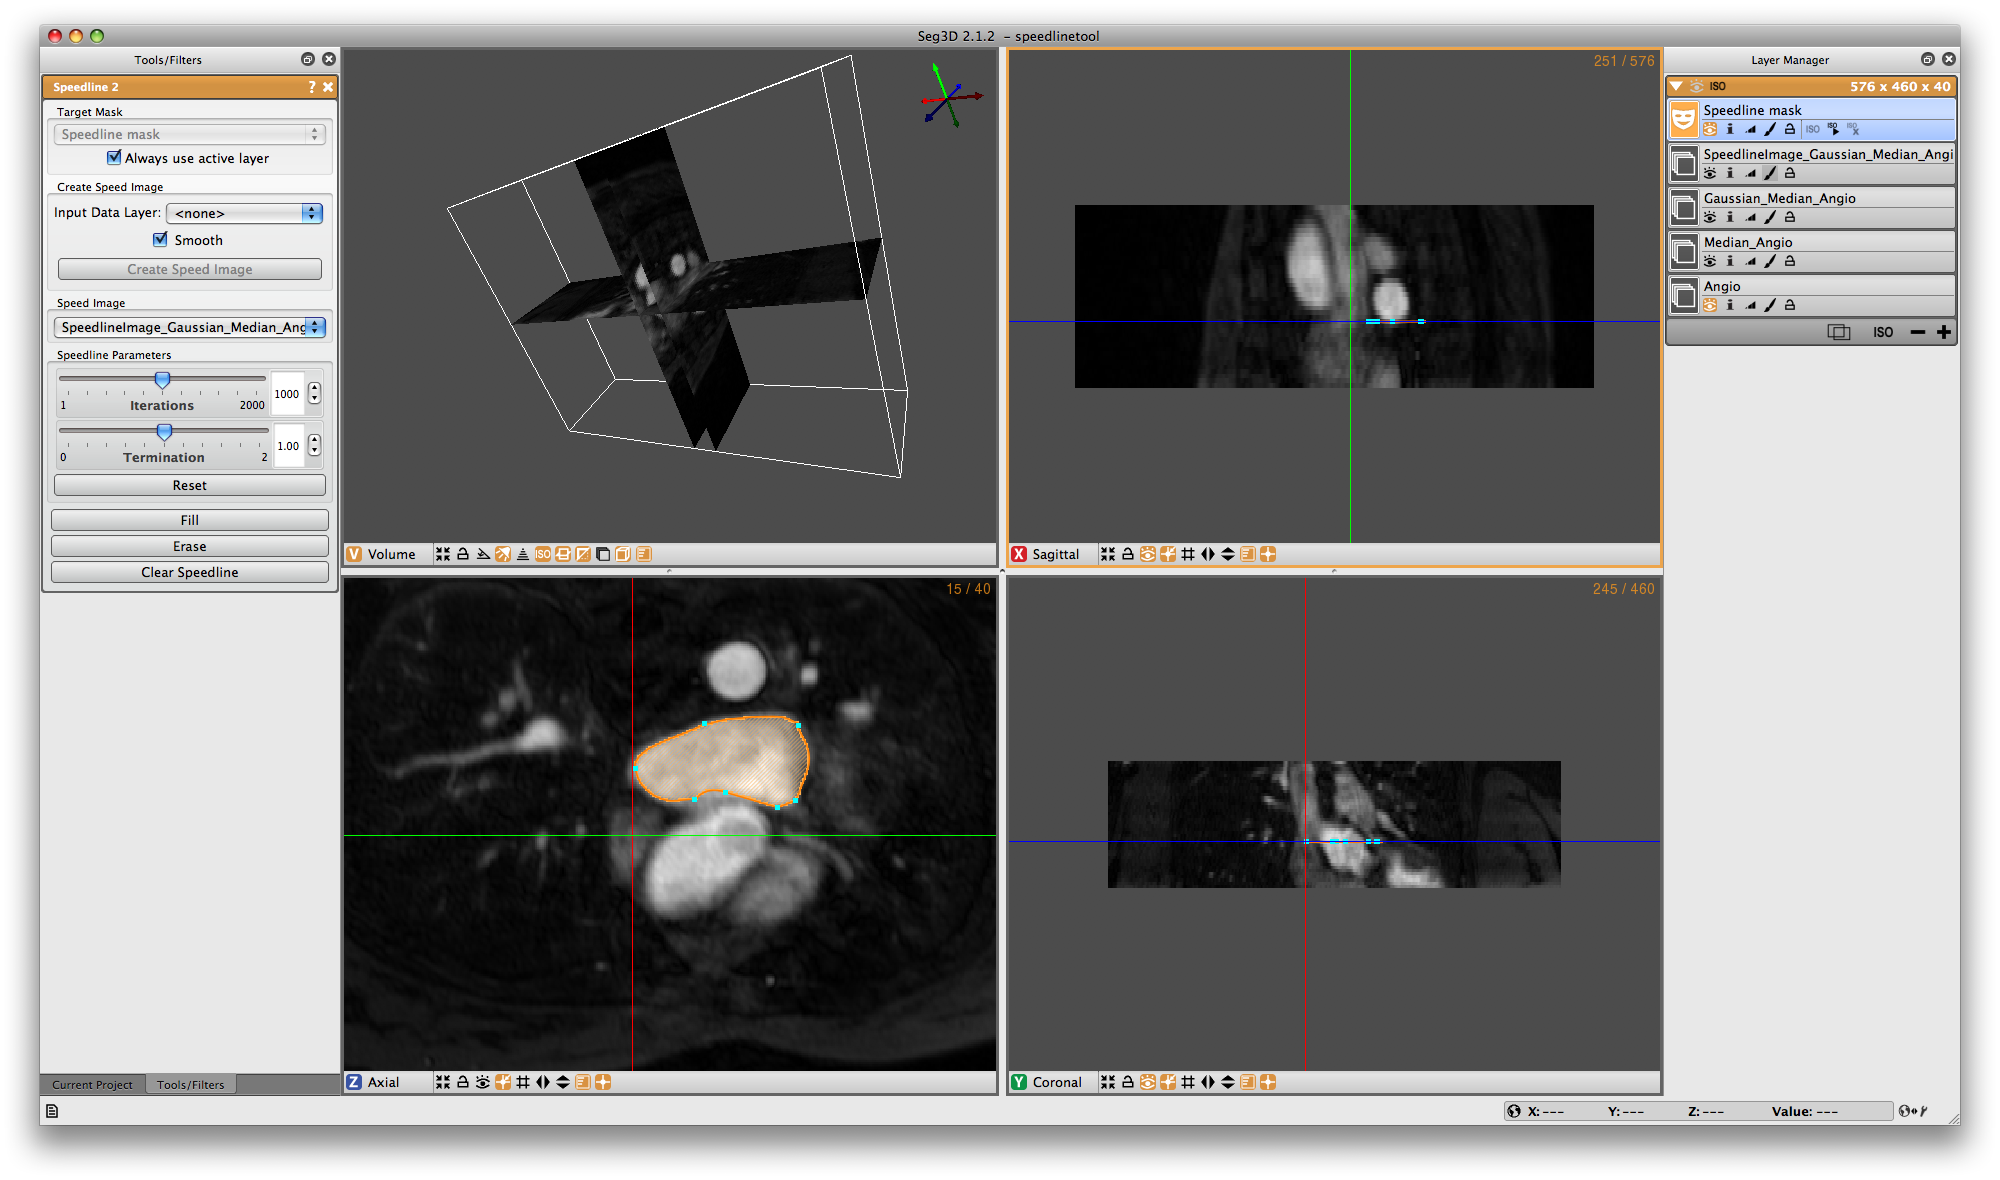
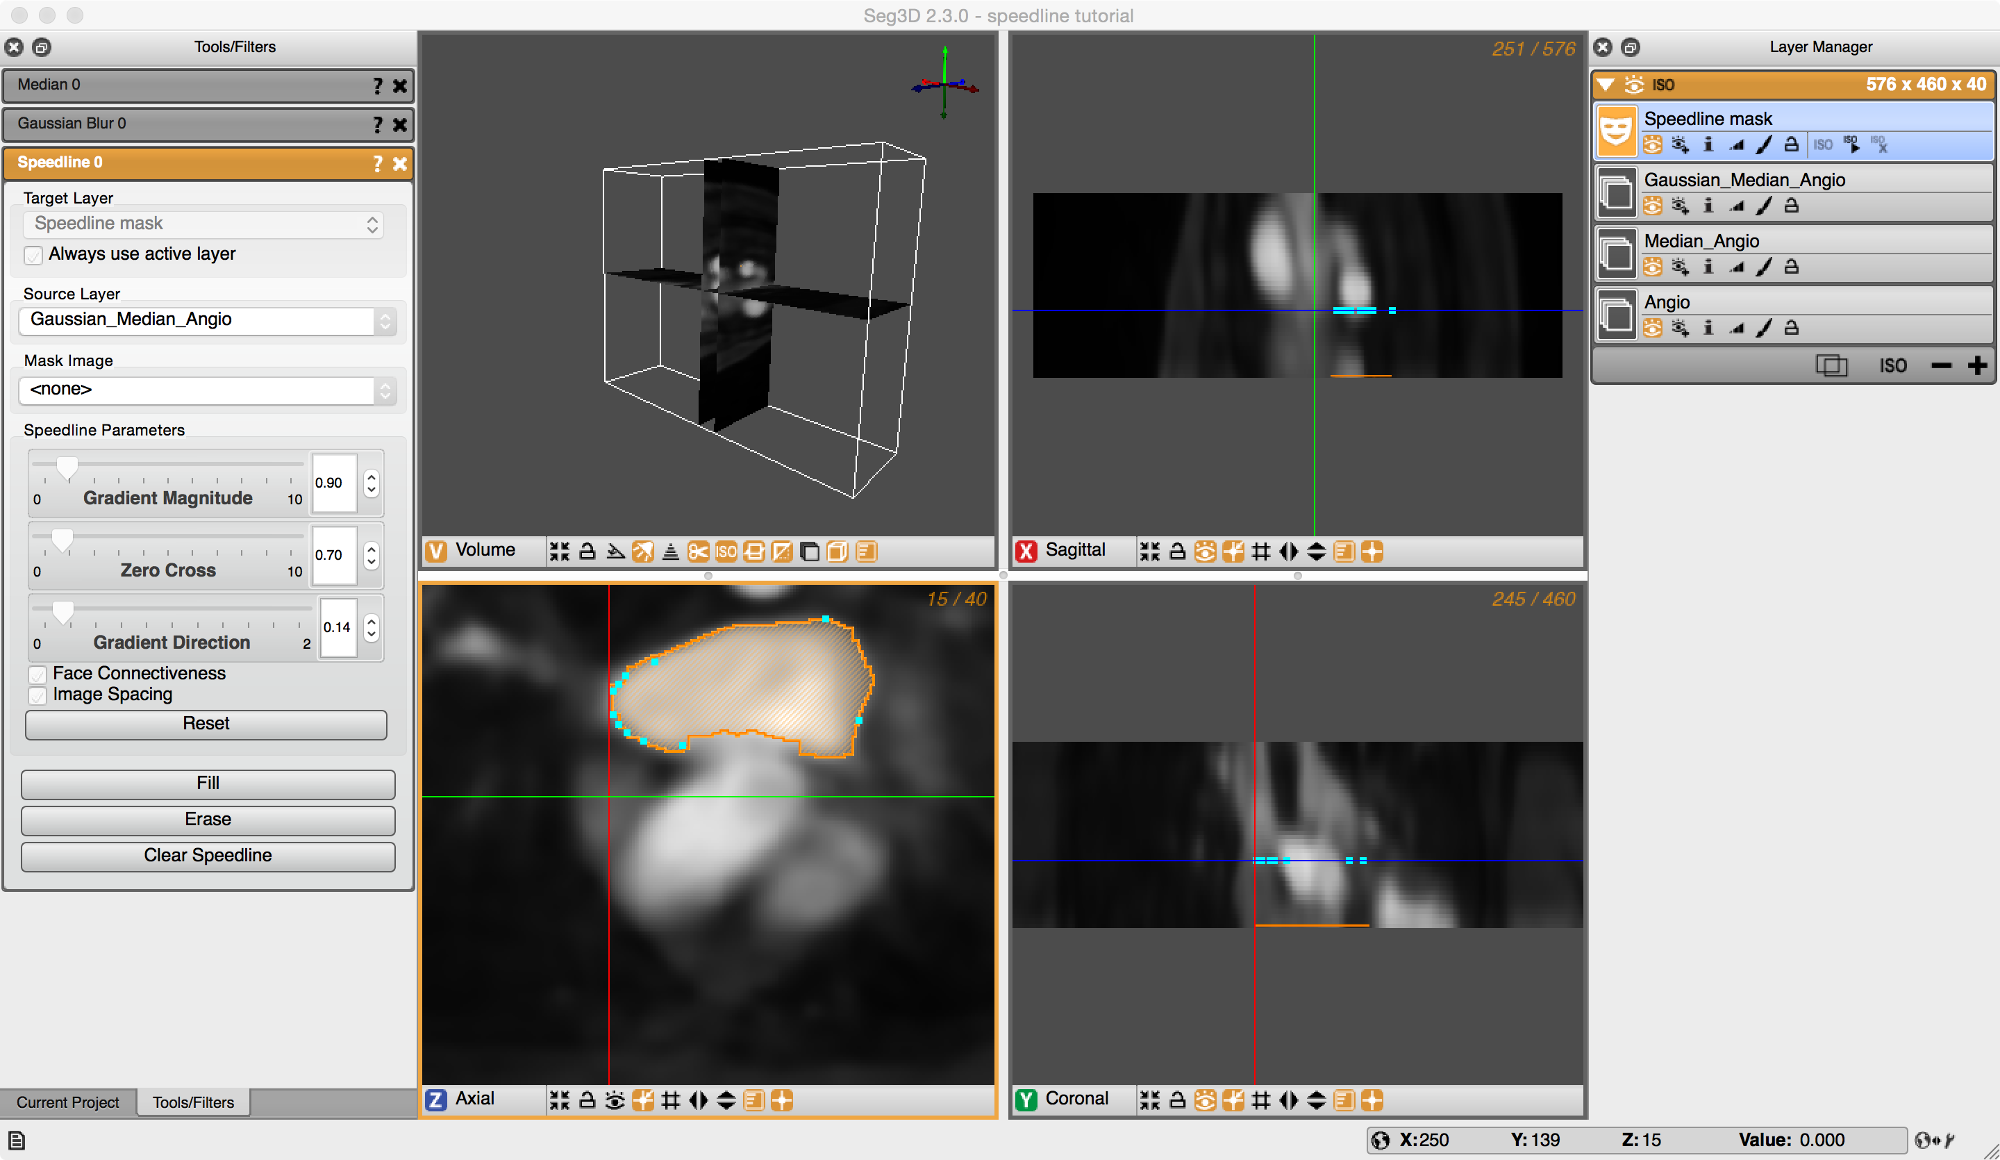
Update tutorial for new Speedline implementation.

diff --git a/src/Documentation/Seg3DTutorial.tex b/src/Documentation/Seg3DTutorial.tex
@@ -365,22 +365,20 @@ Scope: Speedline Tool Segmentation
 \caption{Creating a speedline contour}\label{fig:SpeedLine1}
 \end{figure}
 
-In this example we will use the Speedline Tool (Also known as the Live Wire Tool) to segment the Left Atrium. We start off with the Median Filtered Angiogram defined in the previous chapter. This data will be the data on which we will using the speed tool.
+In this example we will use the Speedline Tool (also known as the Live-Wire tool) to segment the left atrium. We start off with the Median Filtered Angiogram defined in the previous chapter. In this example, the data is further smoothed using the Gaussian filter. Using a smoothing filter is recommended before the using Speedline tool.
 
-Open  the {\bf Speedline} tool from the Tools menu. Before one can use the speedline tool a gradient image must be generated. This gradient image can be computed by pressing the {\bf Create Speed Image} button in the Tools/Filters dialog box on the left. This will create a new data volume defined by the gradient of the original image. The speedline tool will use this image to trace a line along boundaries of tissues.
-
-Figure~\ref{fig:SpeedImage} shows the resulting speed image, which highlights the contours of the Ascending and Descending Aorta as well as the Left Atrium. Errors (highlighted in red boxes) are displayed in the {\bf Speedline} dialog box explaining what needs to be done in order to proceed.  The first error indicates that a mask needs to be selected in order to create the speedline.  Push the plus button on the bottom right corner of the {\bf Layer Manager} on the right of the screen.  This will create a new layer mask and eliminate the first error message.  Next, a speed image must be selected on which to apply the speedline.  In the middle of the {\bf Speedline} dialog box on the left of the screen is a drop down menu that has <none> selected.  Click on the dropdown box and select SpeelineImage layer that you have created.
+Open  the {\bf Speedline} tool from the Tools menu as shown in Figure~\ref{fig:SpeedImage}. Errors (highlighted in red boxes) are displayed in the {\bf Speedline} dialog box explaining what needs to be done in order to proceed. The first error indicates that a mask needs to be selected in order to create the speedline. Push the plus button on the bottom right corner of the {\bf Layer Manager} on the right of the screen. This will create a new layer mask and eliminate the first error message. Next, a data volume layer must be selected on which to apply the speedline. In the middle of the {\bf Speedline} dialog box on the left of the screen is a drop down menu that has {\bf $<$none$>$} selected. Click on the dropdown box and select a data layer.
 
 \begin{figure}
 \includegraphics[width=\textwidth]{Seg3DTutorial_figures/SpeedlineFill.png}
 \caption{Filling in a speedline contour}\label{fig:SpeedLine2}
 \end{figure}
 
-Now we are ready to create the speedline.  If you prefer to look at the raw data while inserting the image (as is shown in Figure\ref{fig:SpeedLine2}) switch off the visibility of the speed function layer by pressing on the eye in the layer menu on the right hand side for this layer.  Otherwise, proceed with the SpeedImage layer.  Insert a point on the border of the left atrium.  Place a second point at some distance from the first and a third point even further away. With the third point in place, hover over a point until you get a hand icon.  Now drag this point along the border and the tool will follow the edge of the volume. Add points at the corners and drag the speedline along the left atrial wall. An example of this is shown in figure~\ref{fig:SpeedLine1}. 
+Now we are ready to create the speedline. Insert a point on the border of the left atrium.  Place a second point at some distance from the first and a third point even further away. With the third point in place, hover over a point until you get a hand icon. Now drag this point along the border and the tool will follow the edge of the volume. Add points at the corners and drag the speedline along the left atrial wall. An example of this is shown in figure~\ref{fig:SpeedLine1}. 
 
-Once the speedline has been completed, it can be filled in by hitting {\bf F} or selecting {\bf Fill} from the Tool Menu on the left. Make sure that the Label Mask you are using does not already have filled regions as the Fill operation will automatically mask over any part that is within the speedline.
+Once the speedline has been completed, it can be filled in by hitting {\bf F} or selecting {\bf Fill} from the Tool Menu on the left. Make sure that the label mask you are using does not already have filled regions as the Fill operation will automatically mask over any part that is within the speedline.
 
-Now a segmentation is generated in one slice, proceed to the next slice by press {\bf $<$} or {\bf $>$}. The speedtool will try to accommodate it's shape to the new cross section. However, manual corrections can be made by moving points around using the left or right mouse buttons and dragging point around, or by adding additional points by pressing the left mouse button in the center of a segment. Press {\bf F} again to fill in the segmentation. (see figure~\ref{fig:SpeedLine2}).
+Now a segmentation is generated in one slice, proceed to the next slice by press {\bf $<$} or {\bf $>$}. The Speedline tool will try to accommodate it's shape to the new cross section. However, manual corrections can be made by moving points around using the left or right mouse buttons and dragging point around, or by adding additional points by pressing the left mouse button in the center of a segment. Sometimes removing points by pressing the right mouse button over a point will give a better result. Press {\bf F} again to fill in the segmentation. (see Figure~\ref{fig:SpeedLine2}).
 
 By doing this sequentially for many slices, one can quickly segment a section of a structure. Once a portion of the structure has been segmented, press the {\bf ISO \Forward} button below your selected label mask in the {\bf Layer Manager} window on the right to visualize the results in the 3D.
 
